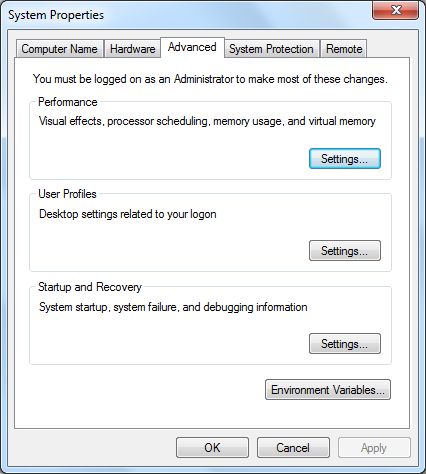
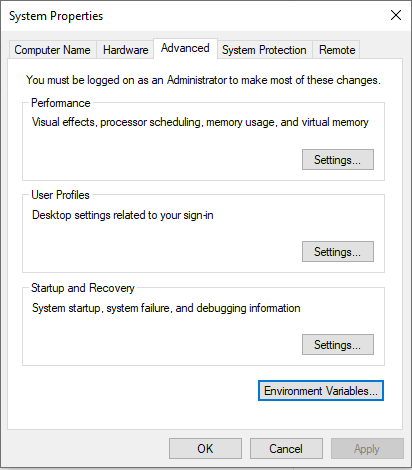
introduction: Updated screenshots
Fixes #48
Closes #89

Changed region(s): [[0.0, 0.0, 1.0, 1.0]]

diff --git a/introduction/running-your-program.rst b/introduction/running-your-program.rst
@@ -13,7 +13,7 @@ Running your Program
    Prompt’, or by going to 'Start > Run' and typing 'cmd'. When it opens, it
    should look something like this:
 
-   .. image:: pic086uq.jpg
+   .. image:: running-your-program-1.png
 
    At the moment it’s pointing to its default directory, which in my case is
    ‘Documents and Settings’ (it doesn’t matter if yours is different). We need
@@ -31,7 +31,7 @@ Running your Program
    course). Then, press the ‘Enter’ key on your keyboard. You should now have
    the following on the Command Prompt:
 
-   .. image:: pic093tn.jpg
+   .. image:: running-your-program-2.png
 
    This means that it’s now pointing to the right directory. To run your script
    and start Panda3D, type the following text behind the > symbol:
@@ -40,13 +40,13 @@ Running your Program
 
       ppython myscript.py
 
-   .. image:: pic108ge.jpg
+   .. image:: running-your-program-3.png
 
    Press the ‘Enter’ key on your keyboard. This will run the version of Python
    that is distributed with Panda3D. If all is well, Panda3D will start and you
    should see the main rendering window appear.
 
-   .. image:: emptypandawindow.jpg
+   .. image:: running-your-program-4.png
 
    This is a empty program, it won't do anything. The next step is to add
    additional commands to the program, as described in one of the following

diff --git a/introduction/installation-windows.rst b/introduction/installation-windows.rst
@@ -9,7 +9,7 @@ Panda3D, you should download the windows installer from the
 `download page <https://www.panda3d.org/download/>`__. Run the installer, and
 follow the prompts:
 
-.. image:: install-1.jpg
+.. image:: install-1.png
 
 After installing Panda, you should run the sample programs to verify that the
 installation is good. The best way to run a sample program is by using the
@@ -19,12 +19,12 @@ Open a command prompt, then change directory to the location where you installed
 Panda. Then, change to the samples subdirectory. There, you will find a large
 number of samples:
 
-.. image:: install-3.jpg
+.. image:: install-2.png
 
 Change directory into one of the sample program directories, then use Python to
 run the sample program in question:
 
-.. image:: install-4.jpg
+.. image:: install-3.png
 
 If the test programs don't run, then usually, you need to update your video
 drivers. If you want to know exactly why a program didn't run, you may need to
